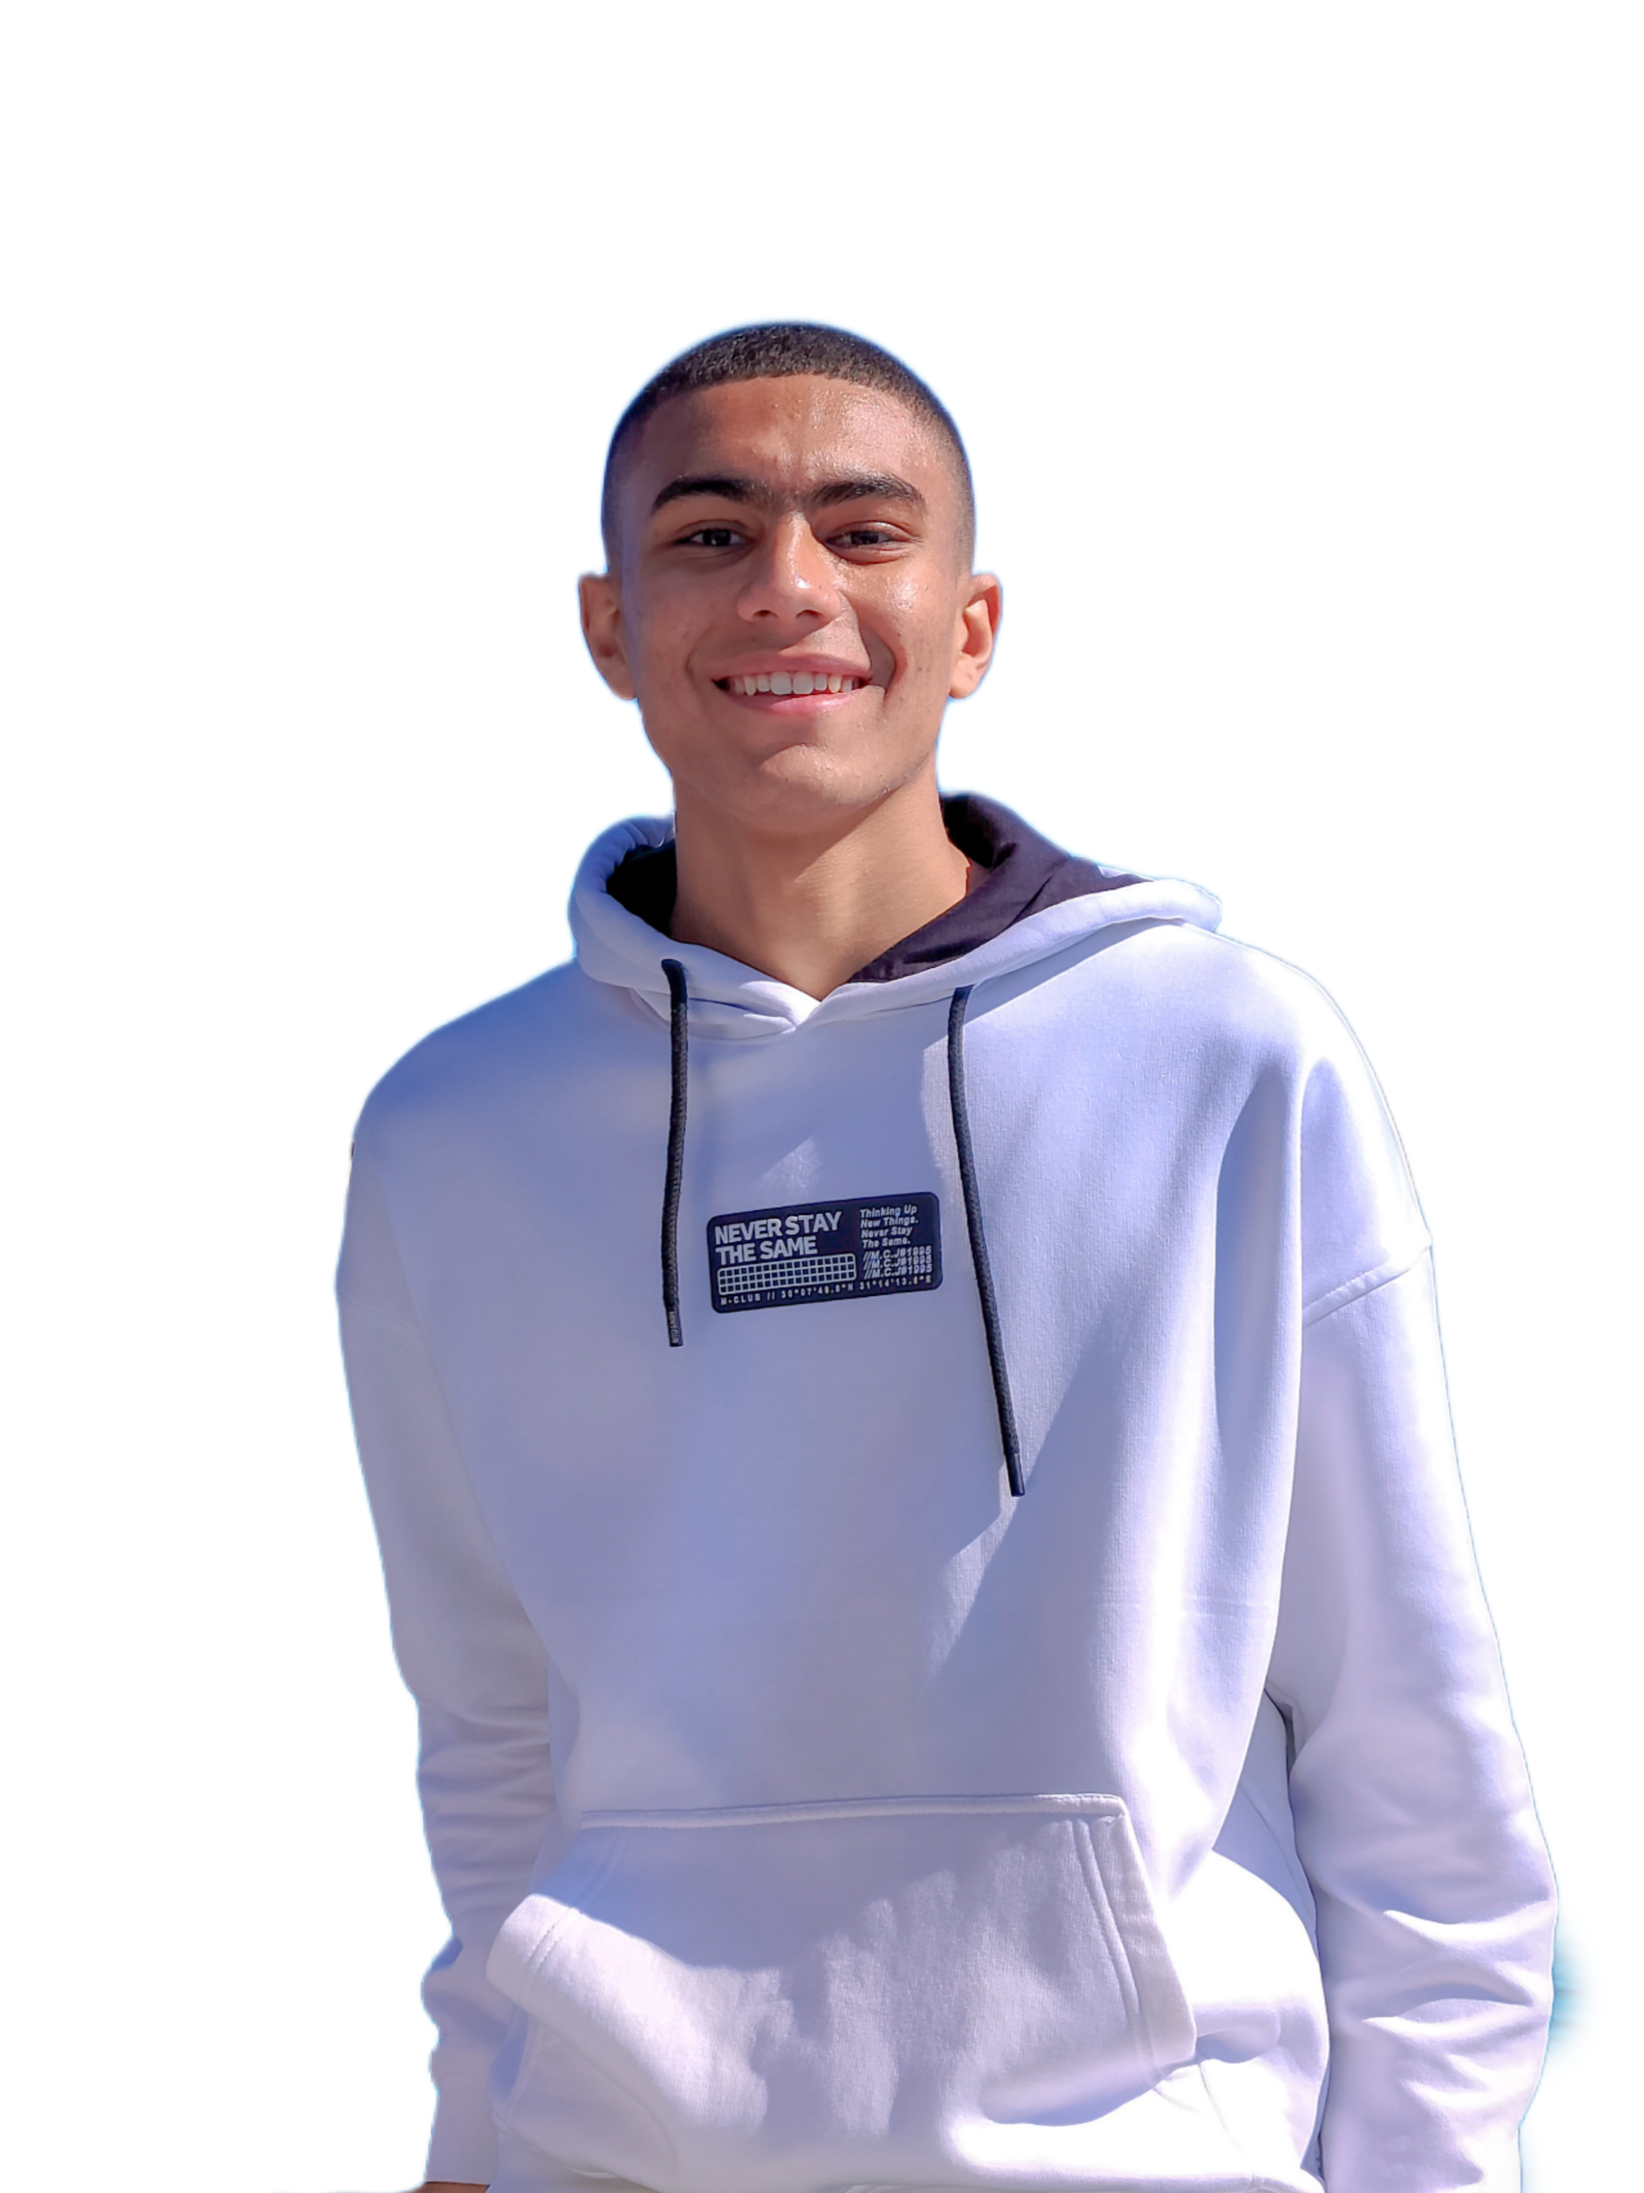
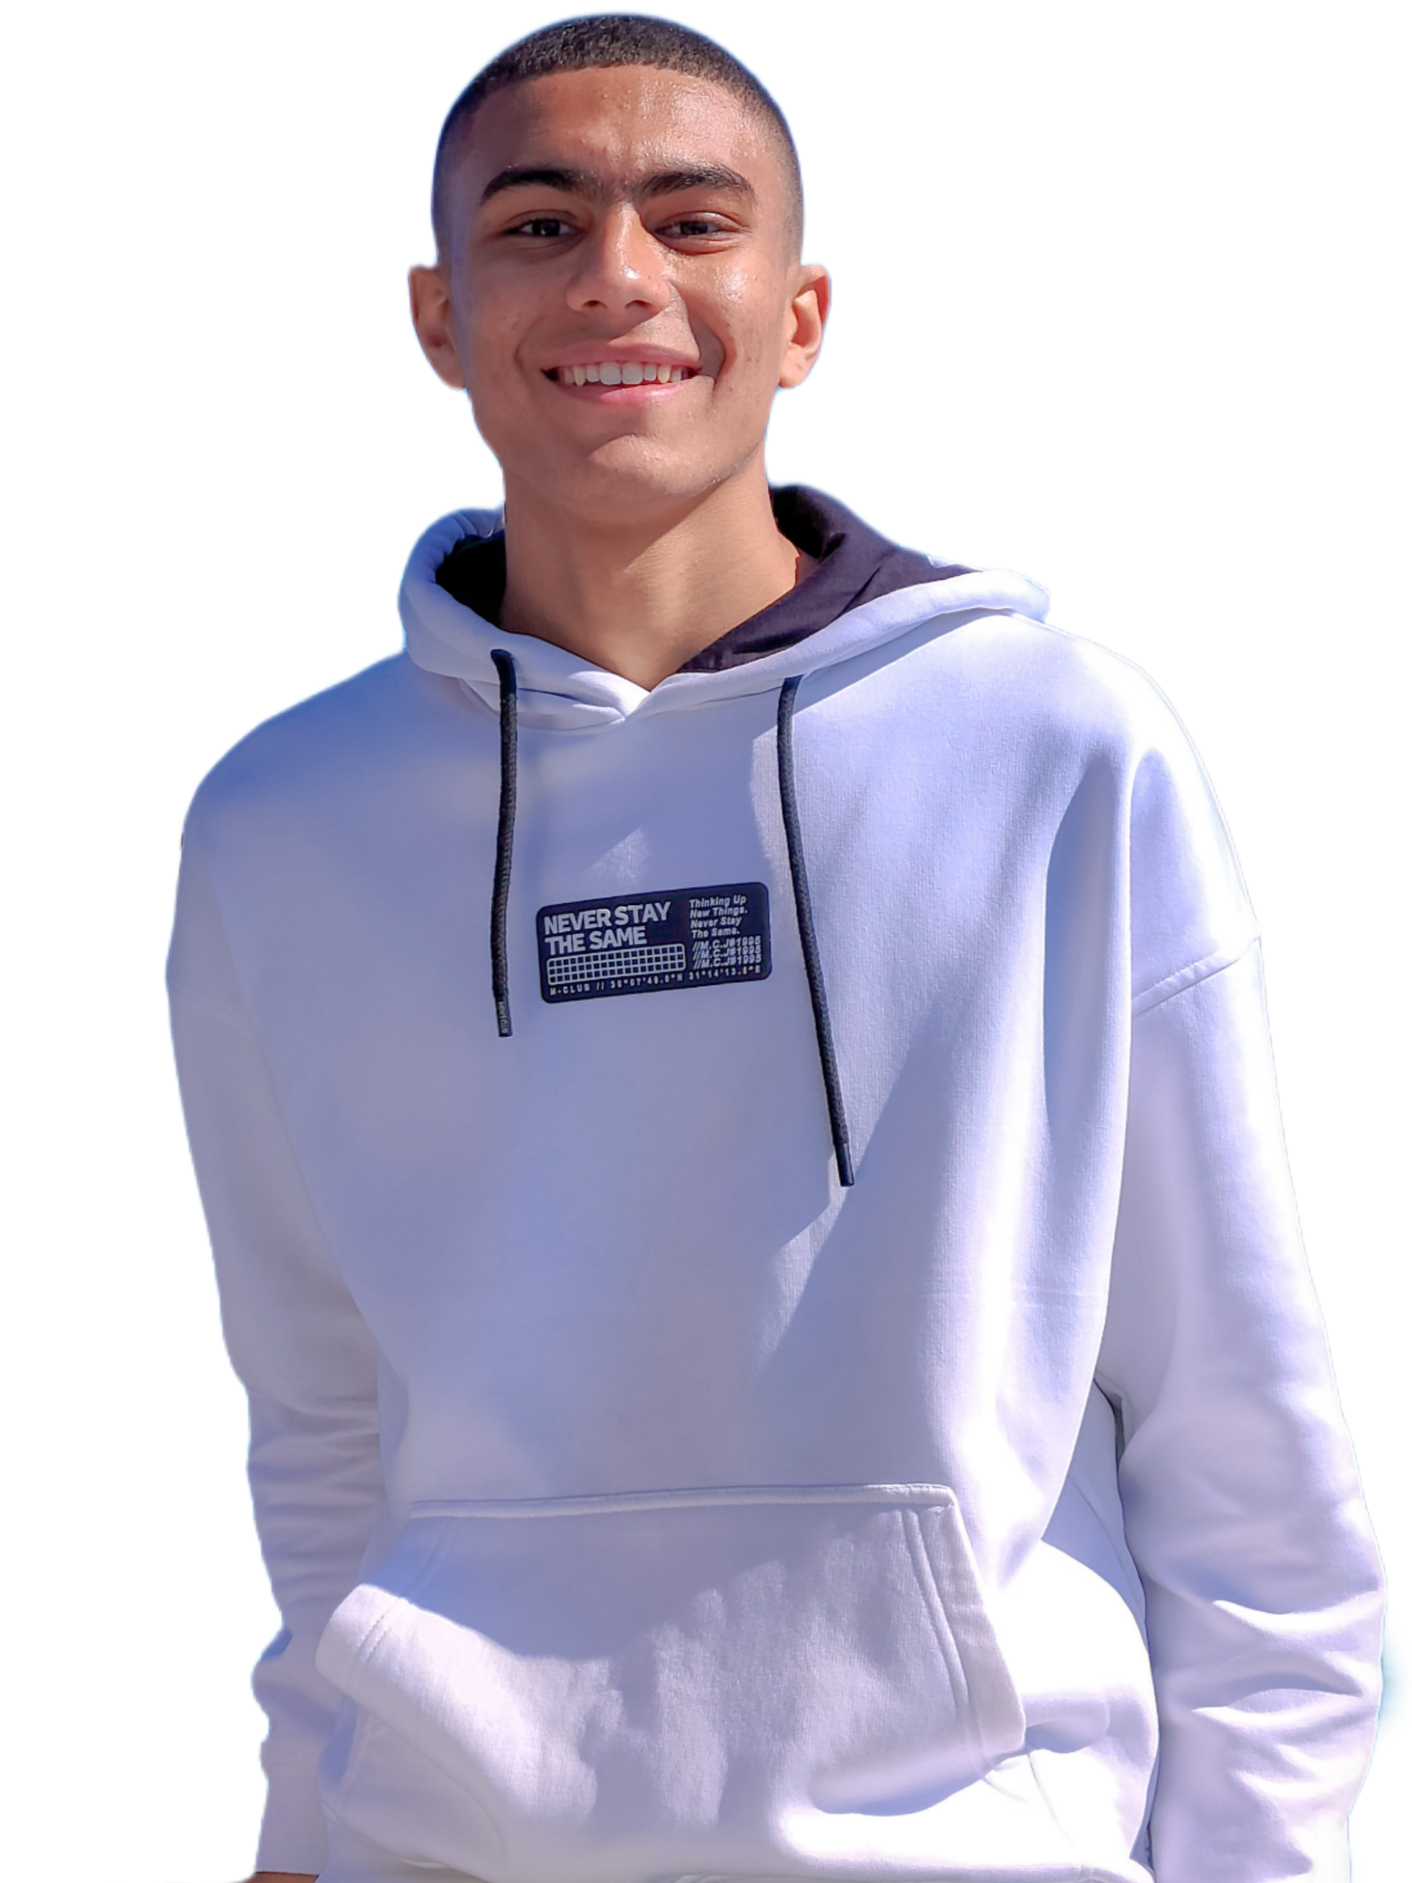
Finish Edits

diff --git a/assets/css/main.css b/assets/css/main.css
@@ -278,6 +278,12 @@ section.home .home-scroll {
 
 /* Start About */
 section.about .content {
+  display: grid;
+  grid-template-columns: repeat(2, 2fr);
+  gap: 2rem;
+  align-items: center;
+}
+section.about .content > div {
   text-align: center;
 }
 section.about .content h3 {
@@ -305,12 +311,23 @@ section.about .content .links a {
 section.about .content .links a:hover {
   color: var(--first-color);
 }
+.section.about .content .about-img {
+  width: 300px;
+  background-color: var(--first-color);
+  border-radius: 140px;
+  padding: 20px 0 0;
+  overflow: hidden;
+  margin-right: auto;
+  margin-left: auto;
+  order: -1;
+}
 /* End About */
 
 /* Start Skills */
 section.skills .content {
   display: grid;
   grid-template-columns: repeat(1, 1fr);
+  align-items: center;
   gap: 2rem;
 }
 section.skills .content .text {
@@ -337,8 +354,14 @@ section.skills .content .items span:hover {
   color: #ffffff;
   background-color: var(--first-color);
 }
-section.skills .content .image img {
-  border-radius: 0.75rem;
+section.skills .content .image {
+  width: 300px;
+  background-color: var(--first-color);
+  border-radius: 140px;
+  padding: 20px 0 0;
+  overflow: hidden;
+  margin-right: auto;
+  margin-left: auto;
 }
 /* End Skills */
 
@@ -381,9 +404,18 @@ section.portfolio .item .link a {
 
 /* Start Contact */
 section.contact .content {
-  display: flex;
-  flex-direction: column;
+  display: grid;
+  grid-template-columns: repeat(1, 1fr);
+  align-items: center;
+  gap: 2rem;
+}
+section.contact .content .main {
+  display: grid;
+  grid-template-columns: repeat(1, 1fr);
   gap: var(--mb-3);
+}
+section.contact .content .text {
+  text-align: center;
 }
 section.contact .content .text h3 {
   margin-bottom: var(--mb-1);
@@ -391,6 +423,14 @@ section.contact .content .text h3 {
 }
 section.contact .content .text p {
   font-size: var(--font-bold);
+}
+section.contact .content .image-contact {
+  width: 300px;
+  background-color: var(--first-color);
+  border-radius: 140px;
+  overflow: hidden;
+  margin-right: auto;
+  margin-left: auto;
 }
 /* End Contact */
 
@@ -446,11 +486,36 @@ footer.footer .text .icons a:hover {
   .home img {
     right: -5px !important;
   }
+  .about .content {
+    grid-template-columns: repeat(1, 1fr) !important;
+  }
+  .about .content .about-img {
+    width: 100% !important;
+    order: 1 !important;
+  }
+  .skills .content .image {
+    width: 100% !important;
+  }
+  .contact .content .image-contact {
+    width: 100% !important;
+  }
 }
 @media screen and (min-width: 500px) {
   .home img {
     width: 390px !important;
     right: 0 !important;
+  }
+  .about .content {
+    grid-template-columns: repeat(1, 1fr) !important;
+  }
+  .about .content .about-img {
+    order: 1 !important;
+  }
+  .skills .content {
+    grid-template-columns: repeat(1, 1fr) !important;
+  }
+  .skills .content .image {
+    width: 400px !important;
   }
 }
 @media screen and (min-width: 768px) {
@@ -502,8 +567,20 @@ footer.footer .text .icons a:hover {
     width: 470px !important;
     right: 0 !important;
   }
+  .about .content {
+    grid-template-columns: repeat(2, 2fr) !important;
+  }
+  .about .about-img {
+    width: 400px !important;
+    margin-left: auto !important;
+    margin-right: 0 !important;
+  }
   .skills .content {
     grid-template-columns: repeat(2, 1fr) !important;
+  }
+  .skills .content .image {
+    margin-left: auto !important;
+    margin-right: 0 !important;
   }
   .skills .content .text {
     gap: 2rem !important;
@@ -512,12 +589,18 @@ footer.footer .text .icons a:hover {
     grid-template-columns: repeat(3, 1fr) !important;
   }
   .contact .content {
-    display: grid !important;
     grid-template-columns: repeat(2, 1fr) !important;
+  }
+  .contact .content .main {
     gap: 2rem !important;
   }
   .contact .content .text {
-    text-align: center;
+    text-align: left !important;
+  }
+  .contact .content .image-contact {
+    width: 400px !important;
+    margin-left: auto !important;
+    margin-right: 0 !important;
   }
   .footer > div {
     grid-template-columns: repeat(3, 1fr) !important;
@@ -537,8 +620,12 @@ footer.footer .text .icons a:hover {
   .home img {
     right: calc((100% - 1024px) / 2) !important;
   }
-  .contact .content {
-    grid-template-columns: repeat(3, 1fr) !important;
+  .contact .content .main {
+    grid-template-columns: repeat(2, 1fr) !important;
+    gap: 4rem !important;
+  }
+  .contact .content .image-contact {
+    width: 400px !important;
   }
 }
 

diff --git a/index.html b/index.html
@@ -64,26 +64,31 @@
             <h2>About</h2>
           </div>
           <div class="content">
-            <h3 class="text">I'm Mostafa Ahmed</h3>
-            <span class="text">Front-end Developer</span>
-            <p class="text">
-              My name is Mostafa Ahmed, born in December 2004. Currently, I am
-              studying at the Faculty of Law, Ain Shams University.
-              <br />Although my college is completely unrelated to the field of
-              technology, I have a passion for it. <br />I started exploring
-              this field about two years ago and have completed more projects in
-              frontend web development.
-            </p>
-            <div class="links text">
-              <a
-                href="https://www.facebook.com/profile.php?id=100015156155072&mibextid=ZbWKwL"
-                target="_blank"
-              >
-                <i class="bx bxl-facebook"></i>
-              </a>
-              <a href="https://github.com/mostafasasa010" target="_blank">
-                <i class="bx bxl-github"></i>
-              </a>
+            <div>
+              <h3 class="text">I'm Mostafa Ahmed</h3>
+              <span class="text">Front-end Developer</span>
+              <p class="text">
+                My name is Mostafa Ahmed, born in December 2004. Currently, I am
+                studying at the Faculty of Law, Ain Shams University.
+                <br />Although my college is completely unrelated to the field
+                of technology, I have a passion for it. <br />I started
+                exploring this field about two years ago and have completed more
+                projects in frontend web development.
+              </p>
+              <div class="links text">
+                <a
+                  href="https://www.facebook.com/profile.php?id=100015156155072&mibextid=ZbWKwL"
+                  target="_blank"
+                >
+                  <i class="bx bxl-facebook"></i>
+                </a>
+                <a href="https://github.com/mostafasasa010" target="_blank">
+                  <i class="bx bxl-github"></i>
+                </a>
+              </div>
+            </div>
+            <div class="about-img">
+              <img src="assets/imgs/mostafa_3.png" alt="" />
             </div>
           </div>
         </div>
@@ -122,7 +127,7 @@
               </div>
             </div>
             <div class="image">
-              <img src="assets/imgs/skill.jpg" alt="Skill Pic" />
+              <img src="assets/imgs/mostafa_4.png" alt="Skill Pic" />
             </div>
           </div>
         </div>
@@ -342,17 +347,22 @@
             <h2>Contact Me</h2>
           </div>
           <div class="content">
-            <div class="text">
-              <h3>EMAIL</h3>
-              <p>mostafa.sasa20004@gmail.com</p>
+            <div class="main">
+              <div class="text">
+                <h3>EMAIL</h3>
+                <p>mostafa.sasa20004@gmail.com</p>
+              </div>
+              <div class="text">
+                <h3>PHONE</h3>
+                <p>+20 0102 184 7148</p>
+              </div>
+              <div class="text">
+                <h3>ADRESS</h3>
+                <p>Hadayek Elqoba, Cairo, Egypt</p>
+              </div>
             </div>
-            <div class="text">
-              <h3>PHONE</h3>
-              <p>+20 0102 184 7148</p>
-            </div>
-            <div class="text">
-              <h3>ADRESS</h3>
-              <p>Hadayek Elqoba, Cairo, Egypt</p>
+            <div class="image-contact">
+              <img src="assets/imgs/mostafa_1.png" alt="" />
             </div>
           </div>
         </div>
